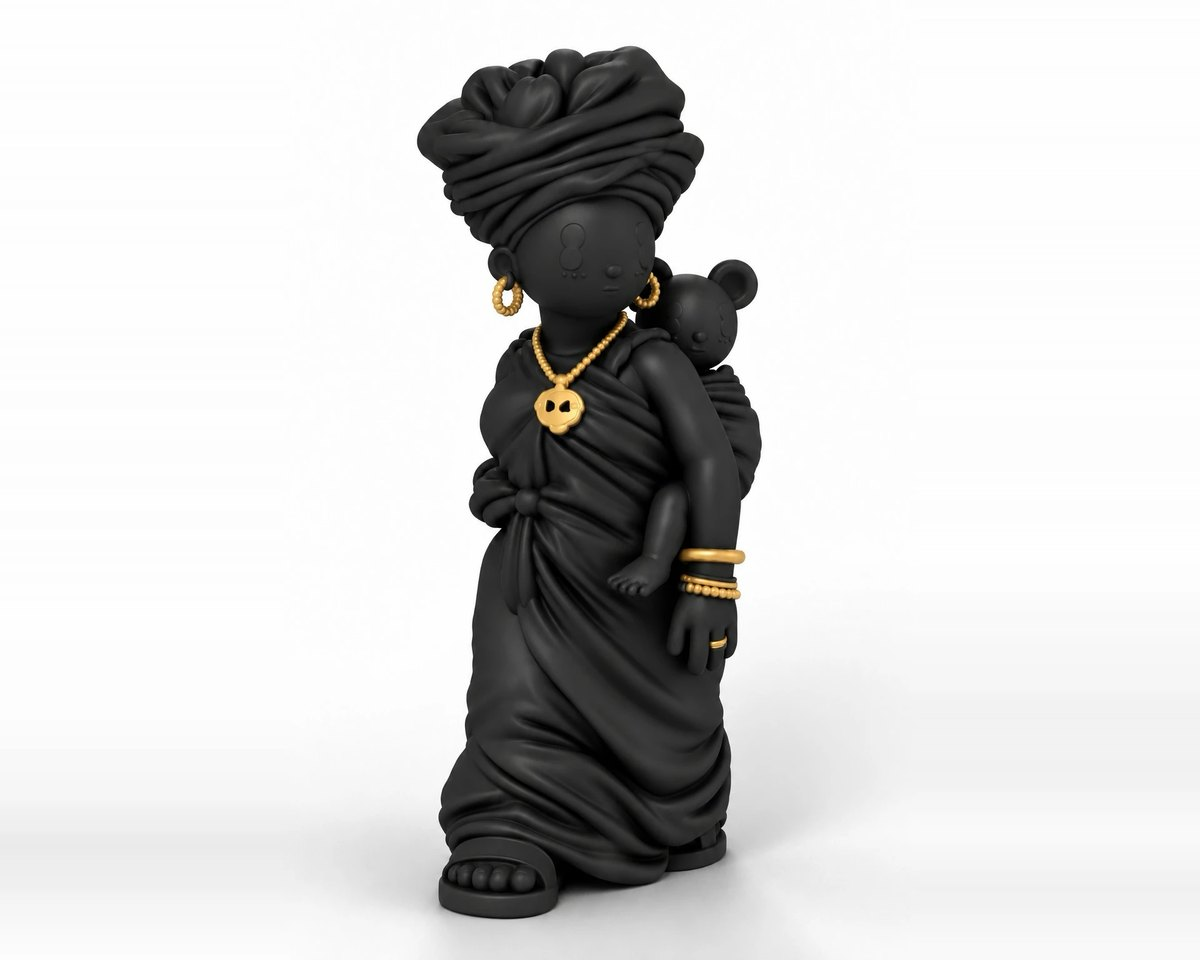
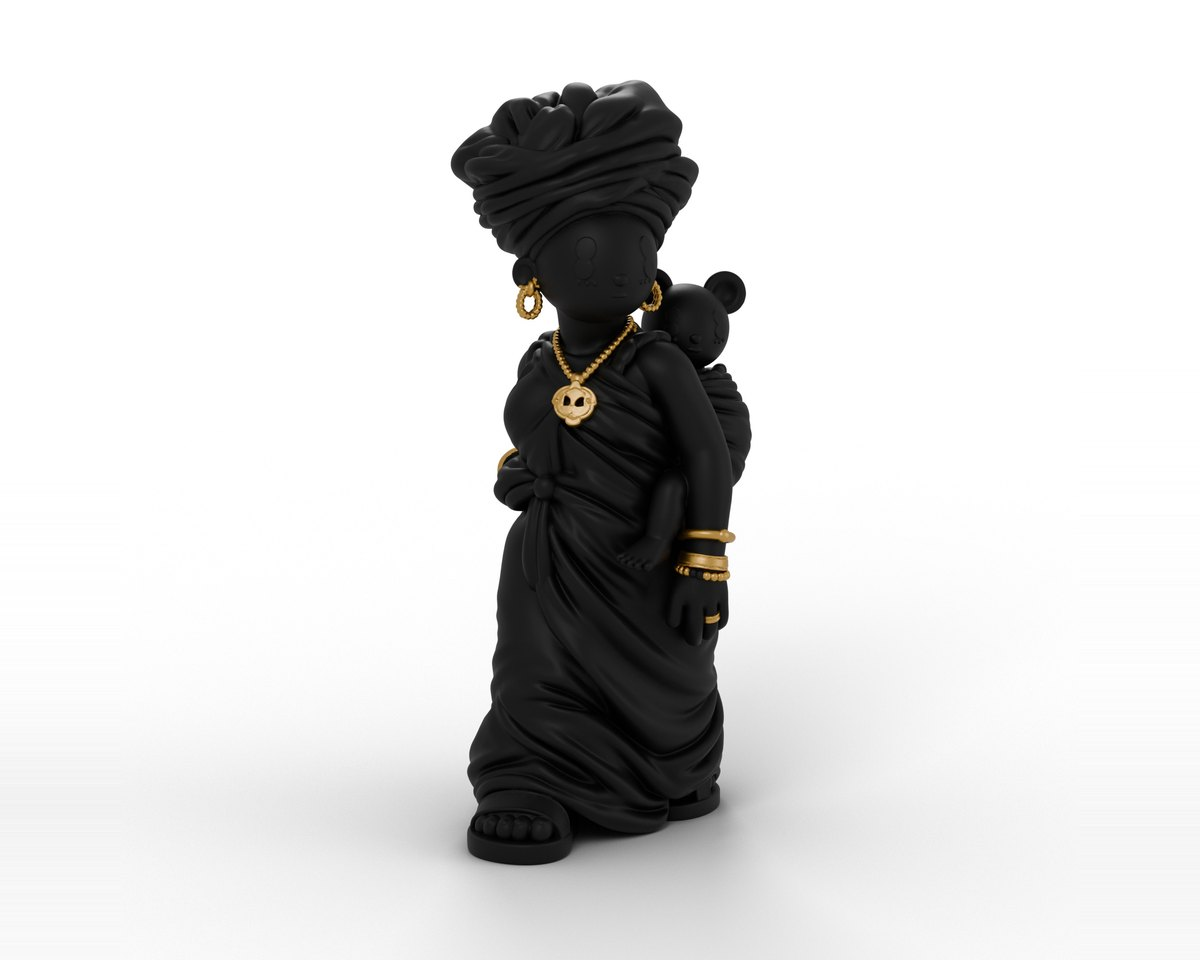
Mama Comfort C04: full six-shot gallery from the Black & Gold renders
Front, Boxed, Back, Side, Signed Sole and Detail now come from 2000 px
C04 renders (resized to 1400 px), replacing the two slides cut from the
concept render. OG and card images rebuilt from the new front render; the
OG file is renamed so social caches pick it up.

Claude-Session: https://claude.ai/code/session_01Bh6FKoam28grQbtsbrdq5t

Changed region(s): [[0.3392, 0.0312, 0.6475, 0.9688]]

diff --git a/products/mama-comfort/index.html b/products/mama-comfort/index.html
@@ -38,7 +38,7 @@
   <meta property="og:title" content="Mama Comfort — Pre-order — Fola Adeleke®" />
   <meta property="og:description" content="A 280 mm soft vinyl collectible figure in matte black with gold jewellery. Numbered limited edition, available to pre-order." />
   <meta property="og:url" content="https://folaadeleke.com/products/mama-comfort" />
-  <meta property="og:image" content="https://folaadeleke.com/images/mama-comfort/og-mama-comfort-black-gold.jpg" />
+  <meta property="og:image" content="https://folaadeleke.com/images/mama-comfort/og-mama-comfort-c04.jpg" />
   <meta property="og:image:width" content="1200" />
   <meta property="og:image:height" content="630" />
   <meta property="og:image:alt" content="Mama Comfort soft vinyl figure by Fola Adeleke in black with gold jewellery" />
@@ -46,7 +46,7 @@
   <meta name="twitter:card" content="summary_large_image" />
   <meta name="twitter:title" content="Mama Comfort — Pre-order — Fola Adeleke®" />
   <meta name="twitter:description" content="A 280 mm soft vinyl collectible figure in matte black with gold jewellery. Numbered limited edition, available to pre-order." />
-  <meta name="twitter:image" content="https://folaadeleke.com/images/mama-comfort/og-mama-comfort-black-gold.jpg" />
+  <meta name="twitter:image" content="https://folaadeleke.com/images/mama-comfort/og-mama-comfort-c04.jpg" />
 
   <style>
     *, *::before, *::after { box-sizing: border-box; margin: 0; padding: 0; }
@@ -485,11 +485,14 @@
       defaultColourway: 'C04',
       // One slide per product_shots.py set. `src` is a path, or a map of
       // colourway code -> path for single-figure shots; '' = placeholder.
-      // Pre-production renders. C04 shots are cut from the Black & Gold concept
-      // render; re-export from scripts/relief/export_web_shots.py once it is rendered.
+      // Pre-production renders at 1400 px; Detail is a crop of the front render.
       // Paths are written out in full so check-site.mjs can verify each one.
       shots: [
         { name: 'Front',            src: { C04: '/images/mama-comfort/front-c04.jpg' } },
+        { name: 'Boxed',            src: { C04: '/images/mama-comfort/boxed-c04.jpg' } },
+        { name: 'Back',             src: { C04: '/images/mama-comfort/back-c04.jpg' } },
+        { name: 'Side',             src: { C04: '/images/mama-comfort/side-c04.jpg' } },
+        { name: 'Signed Sole',      src: { C04: '/images/mama-comfort/sole-c04.jpg' } },
         { name: 'Detail',           src: { C04: '/images/mama-comfort/detail-c04.jpg' } }
       ]
     };
